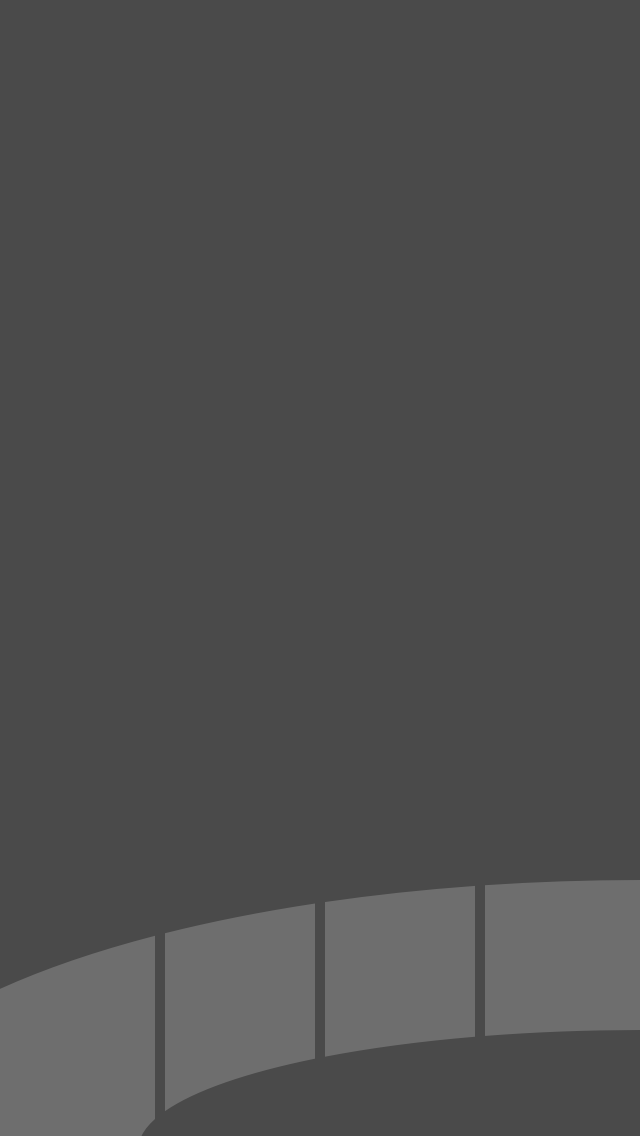
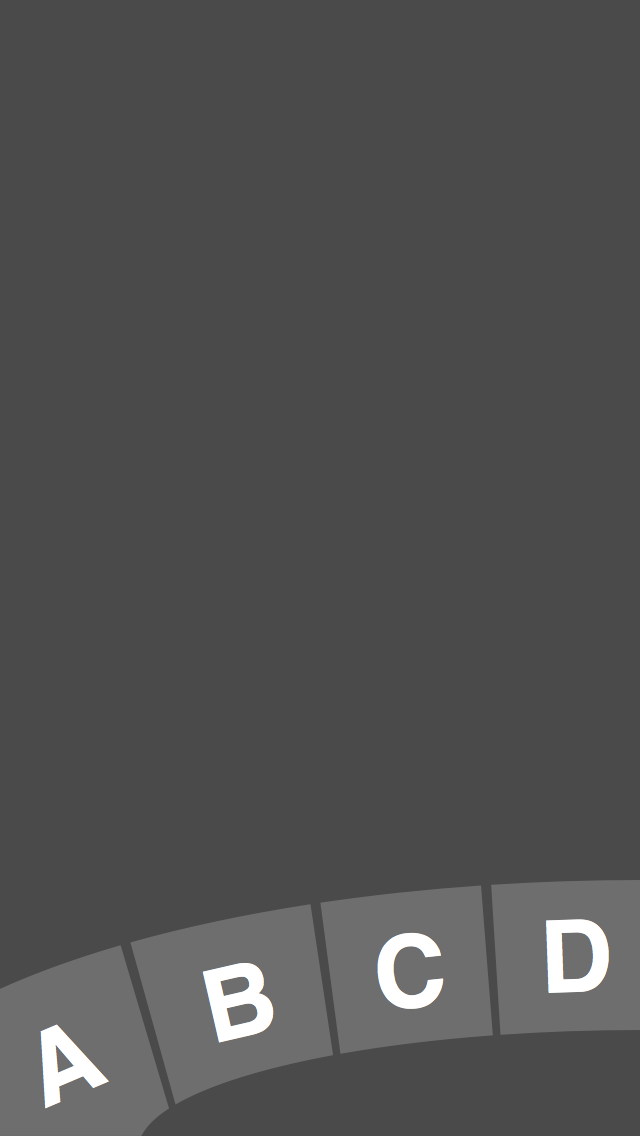
replaced background SVG with embedded SVG tags. That allows for button hover effects, among other benefits. Plus playing withSVG is fun, too

diff --git a/src/app/templates/controls.html b/src/app/templates/controls.html
@@ -1,7 +1,28 @@
-{{#each items}}
-  <li>
-    <b accesskey="{{letter}}" data-country-id="{{id}}">
-      <span>{{letter}}</span>
-    </b>
-  </li>
-{{/each}}
+<svg preserveAspectRatio="none" viewBox="0 0 640 260" xmlns="http://www.w3.org/2000/svg">
+
+  <g accesskey="{{items.0.letter}}" data-country-id="{{items.0.id}}">
+    <path d="M-0.0078125,112.879531 C35.3296211,96.8668604 75.8022281,82.2212329 120.587093,69.2203829 L169.038029,232.445019 C155.511809,241.169334 146.122112,250.370648 141.435514,259.914063 L-0.0078125,259.914062 L-0.0078125,112.879531" id="Path"></path>
+
+    <text transform="rotate(-23 61.957 185)" font-family="Helvetica" font-size="100" font-weight="bold">
+      <tspan x="25.849" y="222">{{items.0.letter}}</tspan>
+    </text>
+  </g>
+  <g accesskey="{{items.1.letter}}" data-country-id="{{items.1.id}}">
+    <path d="M310.447484,28.206942 C245.255697,38.2397391 184.753352,51.1399484 130.355697,66.4299233 L130.355697,66.4299231 L175.498414,228.495793 C209.196361,208.93221 263.971517,191.957719 333.097932,179.173739 L310.447484,28.206942 L310.447484,28.206942" id="Path"></path>
+    <text transform="rotate(-13 238.5 124)" font-family="Helvetica" font-size="100" font-weight="bold">
+      <tspan x="202.392" y="161">{{items.1.letter}}</tspan>
+    </text>
+  </g>
+  <g accesskey="{{items.2.letter}}" data-country-id="{{items.2.id}}">
+    <path d="M480.978275,9.47121003 C425.094715,13.3254706 371.332458,19.1461944 320.35382,26.7098502 L320.35382,26.7098502 L340.425252,177.843934 C385.909988,169.743912 437.333221,163.430524 492.859545,159.340773 L480.978275,9.47121002 L480.978275,9.47121003" id="Path"></path>
+    <text transform="rotate(-6 409.5 94)" font-family="Helvetica" font-size="100" font-weight="bold">
+      <tspan x="373.392" y="131">{{items.2.letter}}</tspan>
+    </text>
+  </g>
+  <g accesskey="{{items.3.letter}}" data-country-id="{{items.3.id}}">
+    <path d="M640,4.00082581 C589.125196,4.04284261 539.366325,5.68758855 491.143208,8.79337401 L491.143208,8.79337401 L500.488352,158.794694 C544.773621,155.716072 591.581748,154.04571 640,154.000925 L640,4.00082572 L640,4.00082581" id="Path"></path>
+    <text transform="rotate(-2 576.043 79)" font-family="Helvetica" font-size="100" font-weight="bold">
+      <tspan x="539.935" y="116">{{items.3.letter}}</tspan>
+    </text>
+  </g>
+</svg>

diff --git a/src/style/views/controls.scss b/src/style/views/controls.scss
@@ -1,82 +1,31 @@
 @import "compass";
 
-#controls > ul {
+#controls svg {
   z-index: 2;
   position: fixed;
   bottom: 0;
   left: 0;
   right: 0;
   height: 130px;
+  width: 100%;
+  pointer-events: none;
 
-  // top left corner of controls is rounded.
-  // Make map behind it clickable
-  overflow: hidden;
-  border-top-left-radius: 100% 80px;
-
-
-  list-style: none;
-  background-image: url(controls.svg);
-  background-size: 100% 100%;
-  background-repeat: no-repeat;
-
-
-  li {
-    position: absolute;
-    display: block;
-    bottom: 0;
-    width: 25%;
-
-    font-size: 50px;
-    font-weight: bold;
-    text-align: center;
-    color: #fff;
+  g {
+    fill: #fff;
     cursor: pointer;
-    overflow: hidden;
+    pointer-events: all;
 
-    // arrange buttons so that the are
-    // easier to reach for thumb
-    &:nth-child(1) {
-      left: 0;
-      height: 90px;
-      line-height: 90px;
+    path {
+      fill-opacity:0.2;
     }
-    &:nth-child(2) {
-      left: 25%;
-      bottom: 30px;
-      height: 80px;
-      line-height: 80px;
-    }
-    &:nth-child(3) {
-      left: 50%;
-      bottom: 45px;
-      line-height: 75px;
-      height: 75px;
-    }
-    &:nth-child(4) {
-      left: 75%;
-      bottom: 55px;
-      line-height: 70px;
-      height: 70px;
-    }
-
-    span, b {
-      display: block;
-      position: absolute;
-      top: 0;
-      left: 0;
-      right: 0;
-      bottom: 0;
+    &:hover path {
+      fill-opacity:0.5;
     }
   }
 
-  // uncomment to visualize clickable areas
-  //
-  //     box-shadow: 0 0 0 1px #fff;
-  //     background: rgba(255,255,0,.3);
-  //     &:hover {
-  //       background: rgba(255,255,255,.3);
-  //     }
-  //     li {
-  //       box-shadow: 0 0 0 1px #fff;
-  //     }
+
+
+  text {
+    text-transform: uppercase;
+  }
 }

diff --git a/Gruntfile.js b/Gruntfile.js
@@ -118,7 +118,7 @@ module.exports = function(grunt) {
           cwd: 'src/',
           src: [
             'index.html',
-            'style/**/*.{png,svg}'
+            'style/**/*.png'
           ],
           dest: 'build/'
         }, {
@@ -211,7 +211,7 @@ module.exports = function(grunt) {
         src: [
           // do not far-future manifest.appcache:
           // http://alistapart.com/article/application-cache-is-a-douchebag#section7
-          'build/**/*.{js,css,png,svg}'
+          'build/**/*.{js,css,png}'
         ]
       }
     },
@@ -246,19 +246,6 @@ module.exports = function(grunt) {
             var mainFilename = grunt.filerev.summary['build/start.js'].substr(6);
 
             return '<script src="'+vendorFilename+'"></script><script src="'+mainFilename+'"></script>';
-          }
-        }]
-      },
-      css: {
-        src: ['build/style/*.css'],
-        overwrite: true,
-        replacements: [{
-
-          // replace image references in CSS
-          from: /controls.svg/,
-          to: function() {
-            var newFilename = grunt.filerev.summary['build/style/controls.svg'].substr(12);
-            return newFilename;
           }
         }]
       }

diff --git a/src/app/views/ControlsView.js b/src/app/views/ControlsView.js
@@ -10,7 +10,6 @@ define([
 
   var ControlsView = Marionette.ItemView.extend({
     template: controlsTemplate,
-    tagName: 'ul',
 
     events: {
       'click [data-country-id]': 'selectOption'
